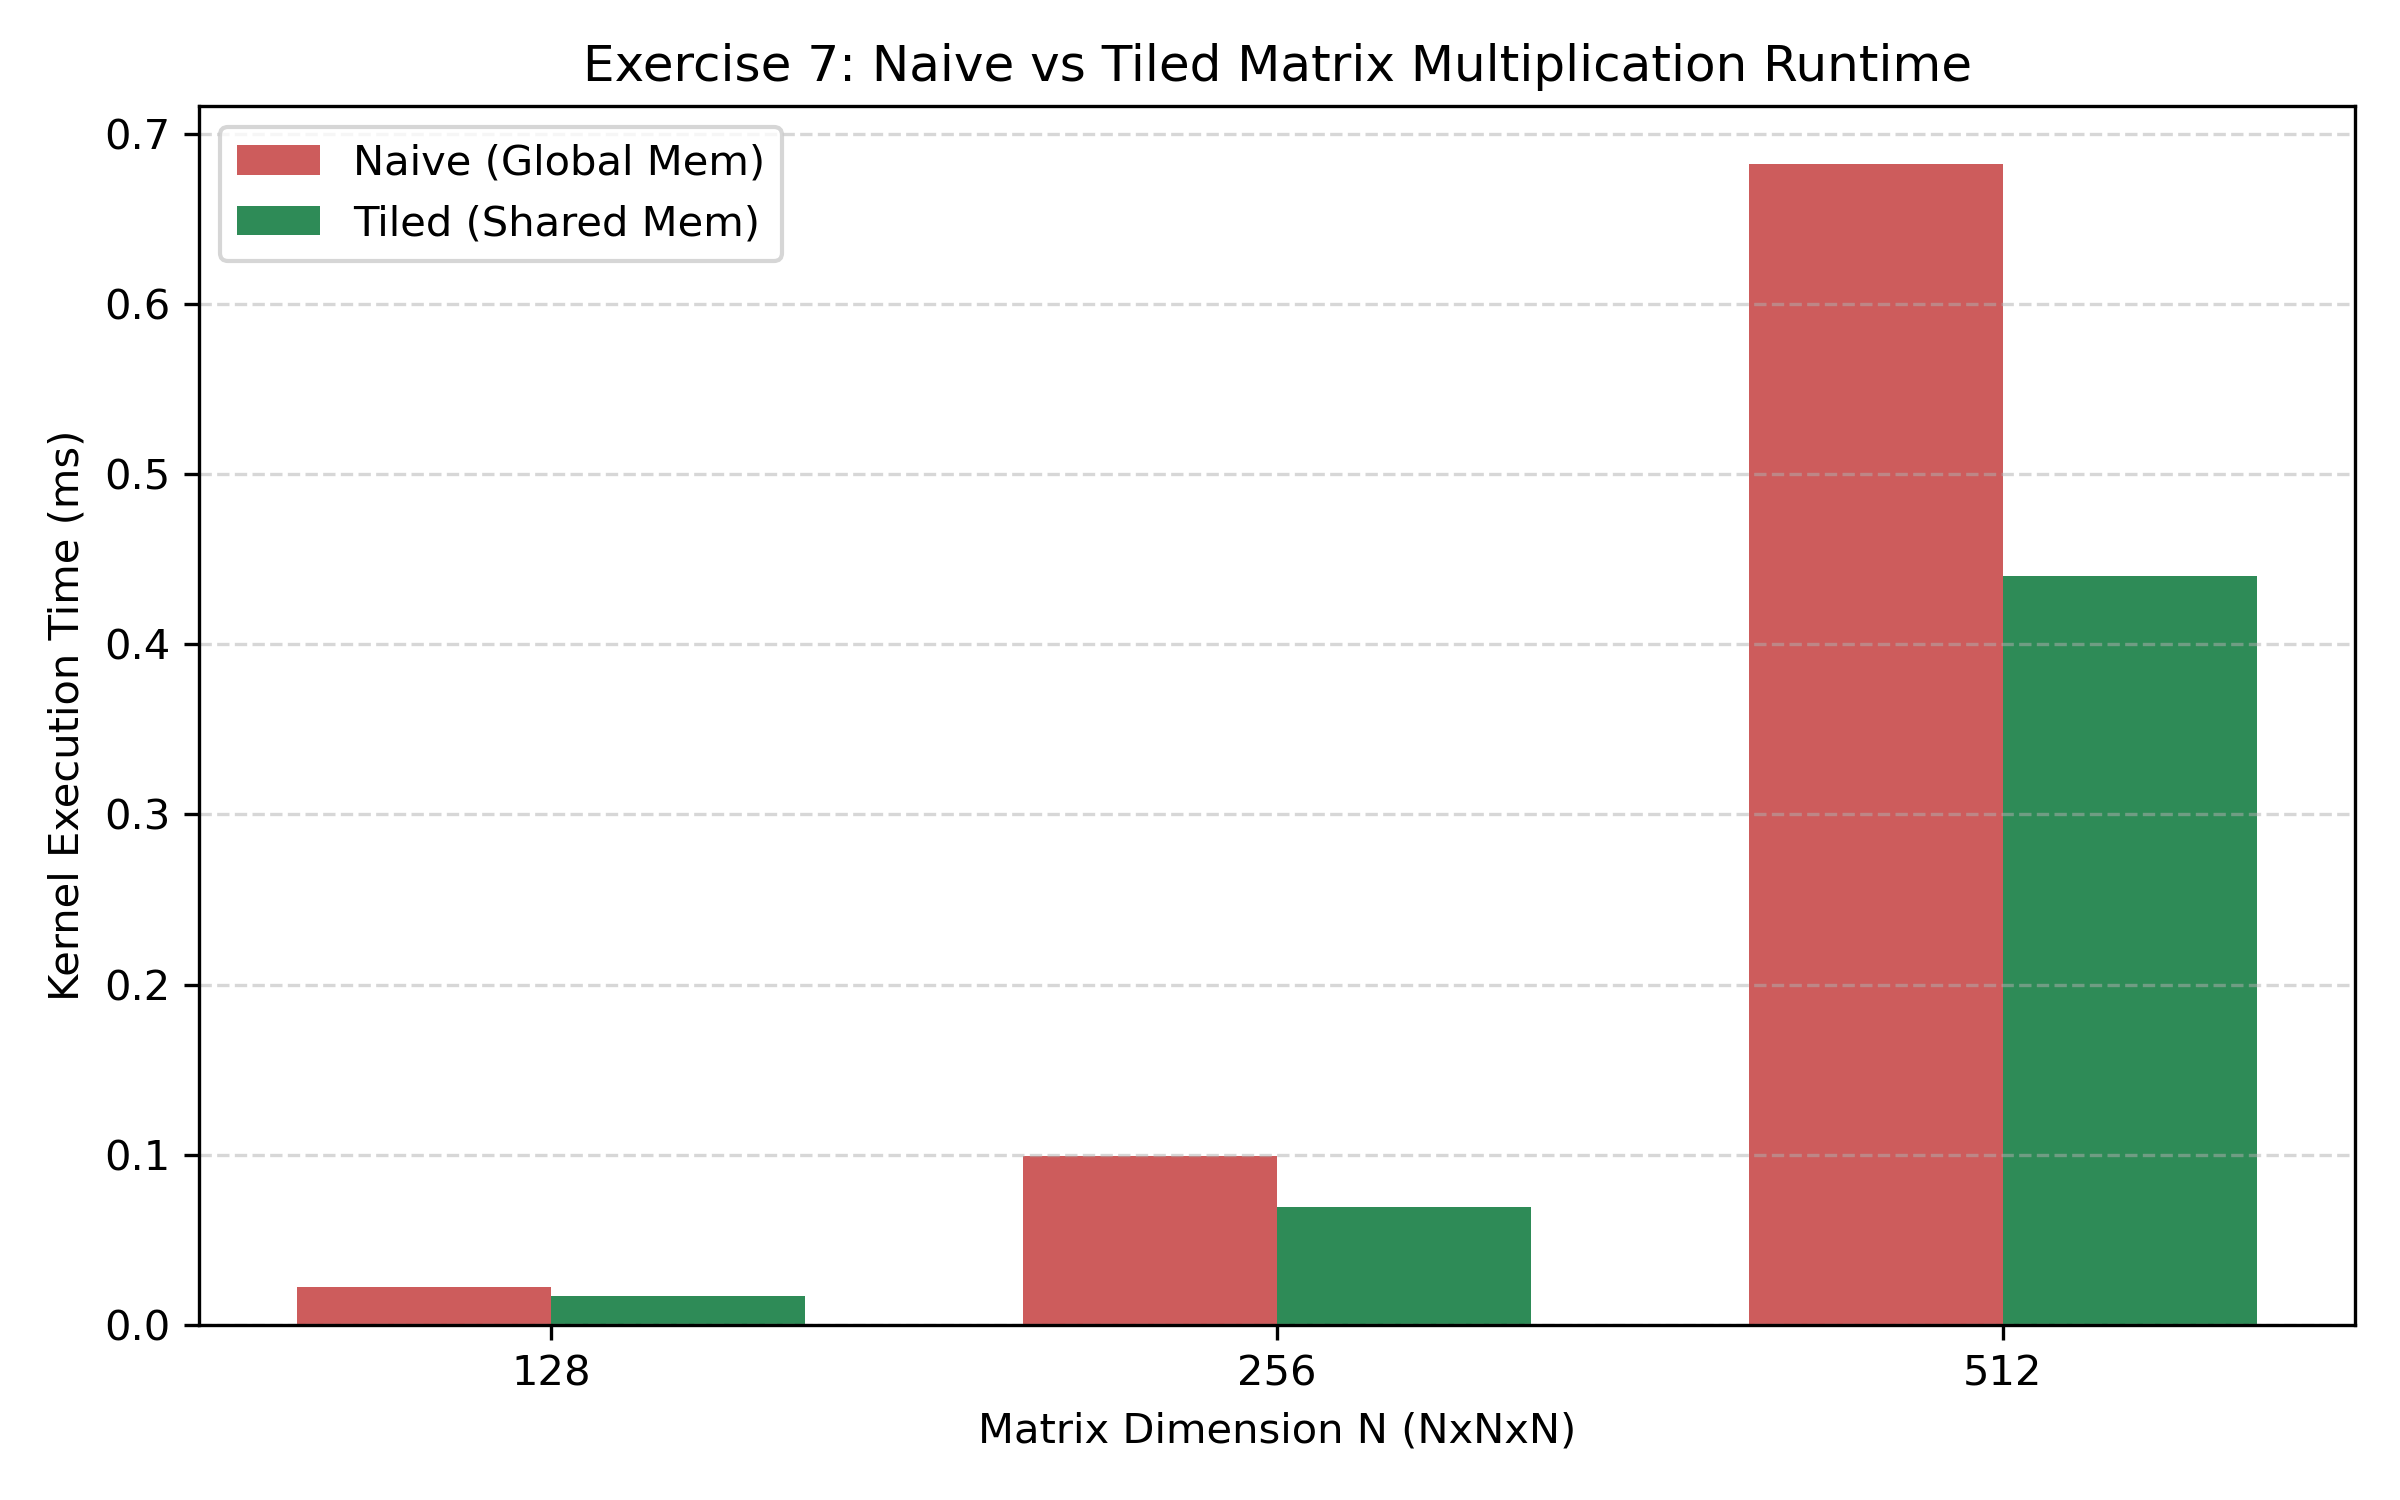
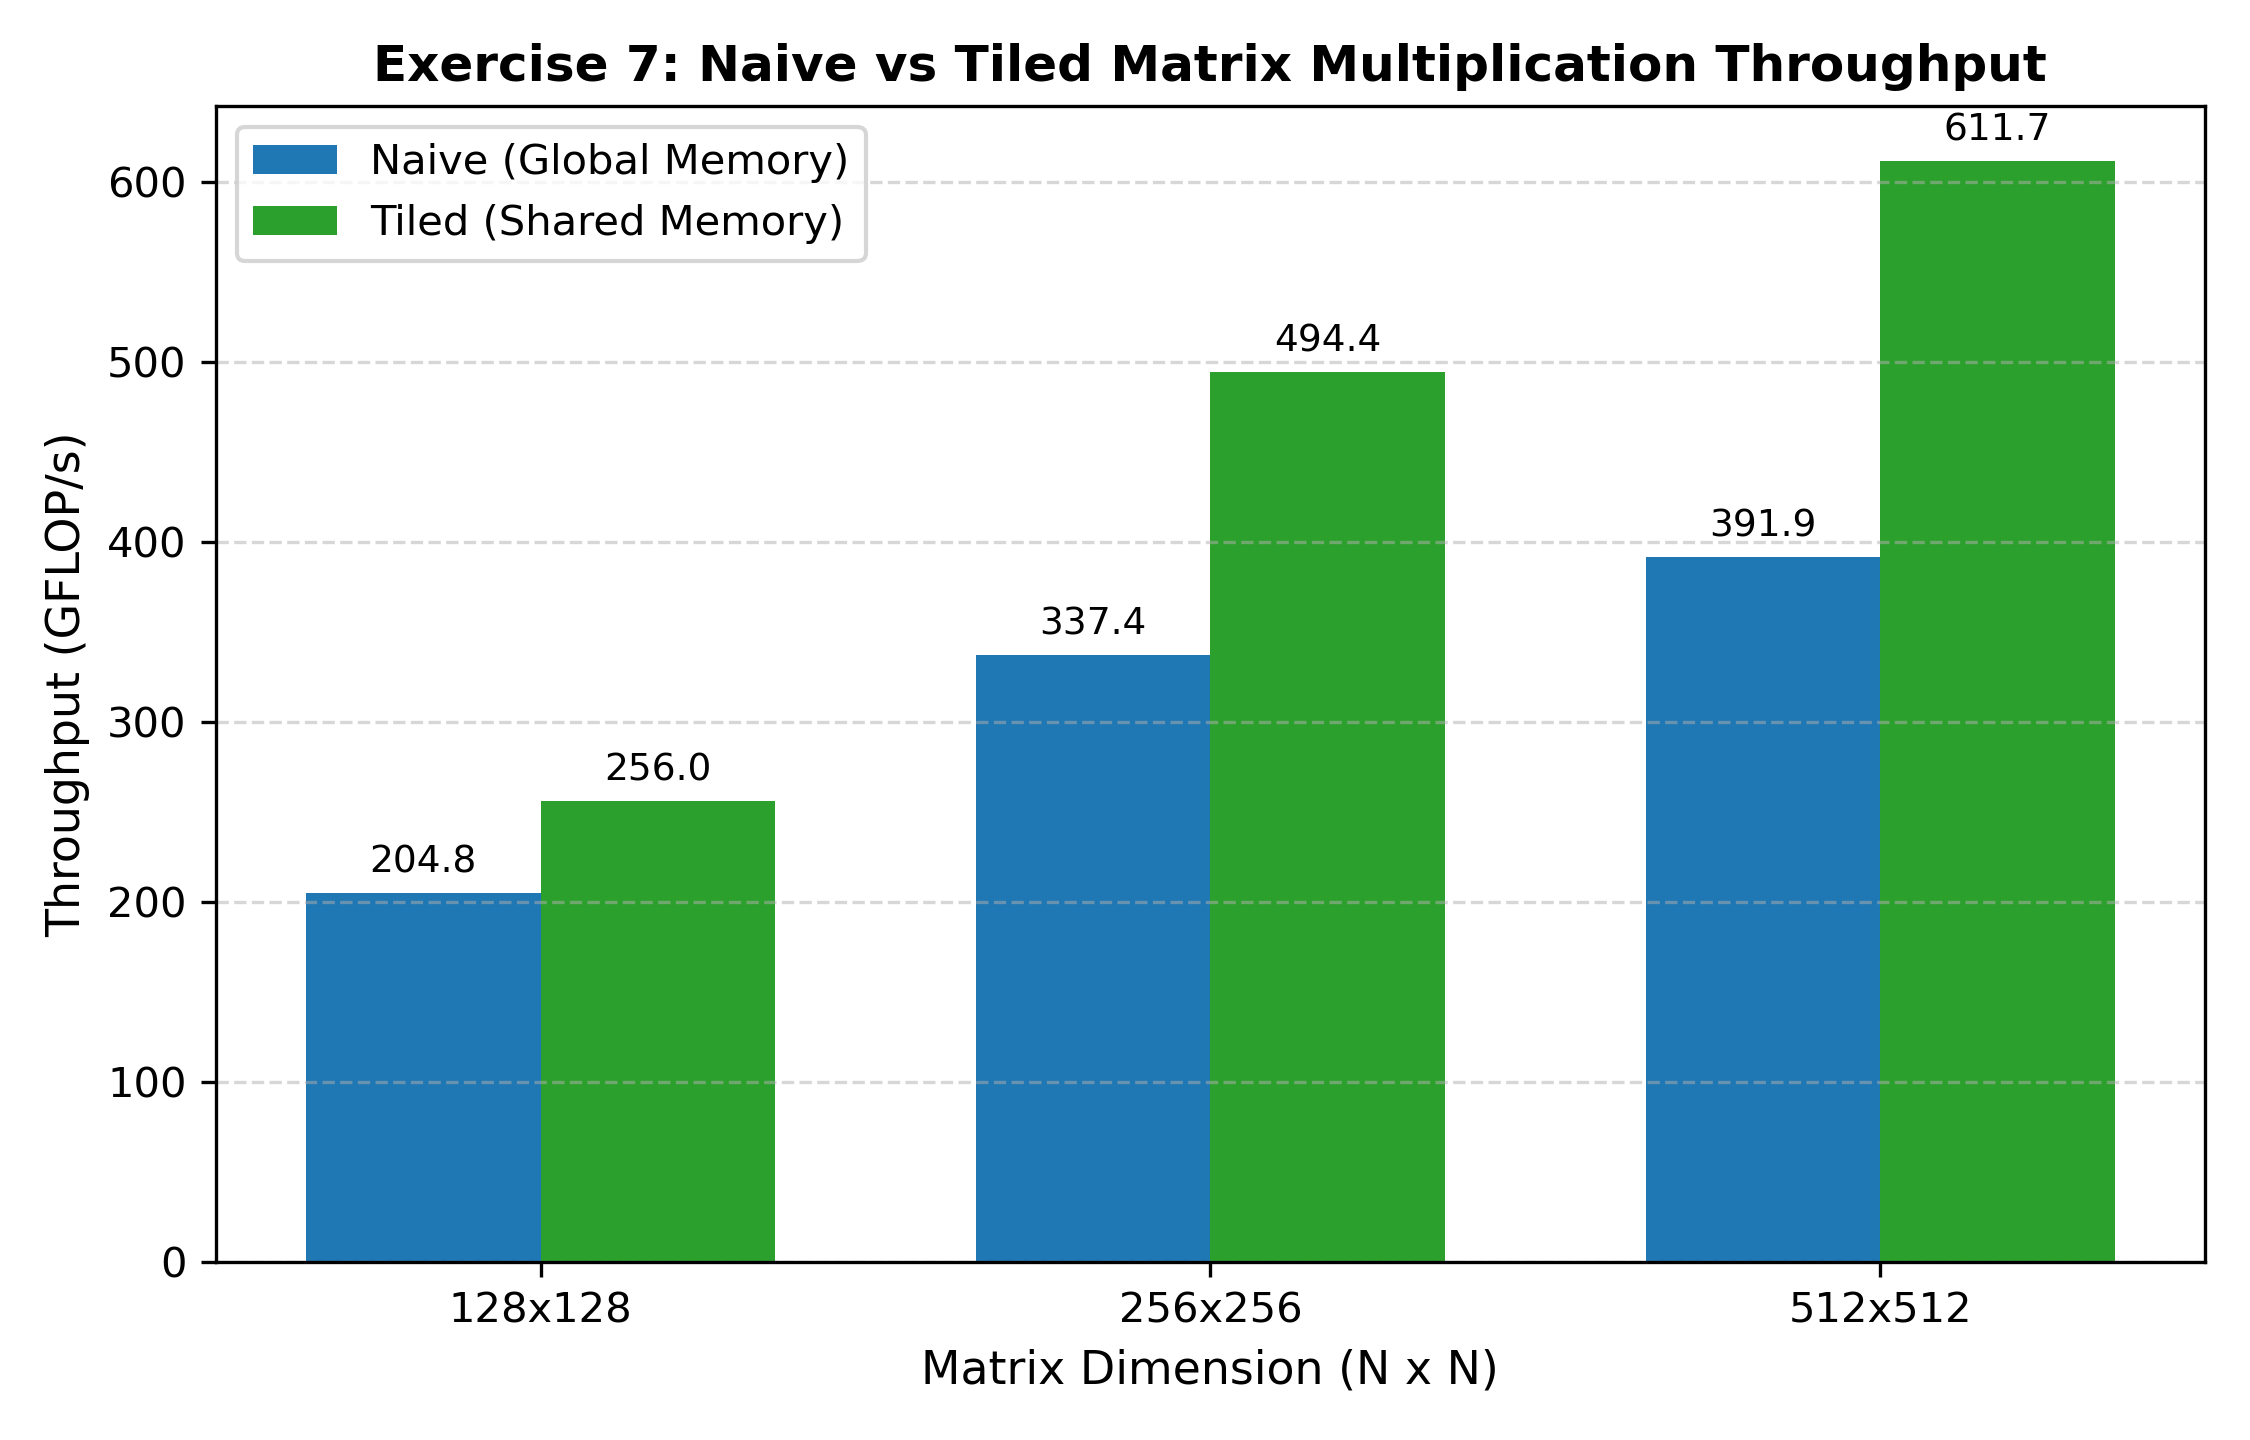
Update lab files, plots, and benchmarks

diff --git a/tables.html b/tables.html
@@ -1,0 +1,9 @@
+<h2>Exercise 7: Naive vs Tiled Matrix Multiplication Table</h2>
+<table>
+  <tr><th>Matrix Size (M x K x N)</th><th>Naive Time (ms)</th><th>Naive GFLOP/s</th><th>Tiled Time (ms)</th><th>Tiled GFLOP/s</th><th>Tiled Speedup</th></tr>
+  <tr><td>127 x 130 x 129</td><td>0.019520</td><td>218.216</td><td>0.016832</td><td>253.064</td><td>1.160x</td></tr>
+  <tr><td>8 x 8 x 8</td><td>0.015648</td><td>0.065</td><td>0.006144</td><td>0.167</td><td>2.547x</td></tr>
+  <tr><td>128 x 128 x 128</td><td>0.020480</td><td>204.800</td><td>0.016384</td><td>256.000</td><td>1.250x</td></tr>
+  <tr><td>256 x 256 x 256</td><td>0.099456</td><td>337.380</td><td>0.067872</td><td>494.378</td><td>1.465x</td></tr>
+  <tr><td>512 x 512 x 512</td><td>0.684960</td><td>391.899</td><td>0.438848</td><td>611.682</td><td>1.561x</td></tr>
+</table>
